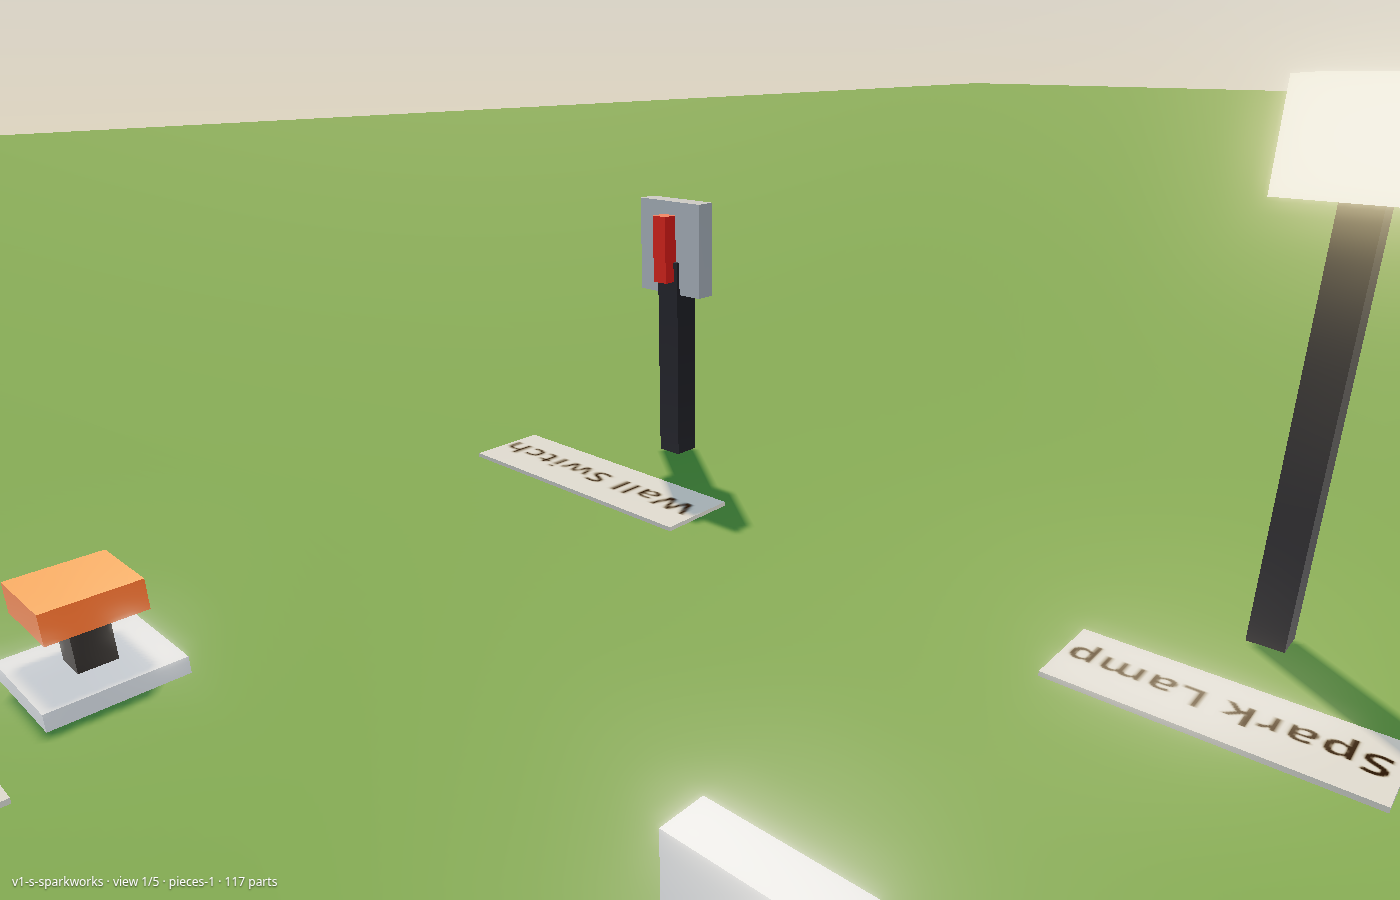
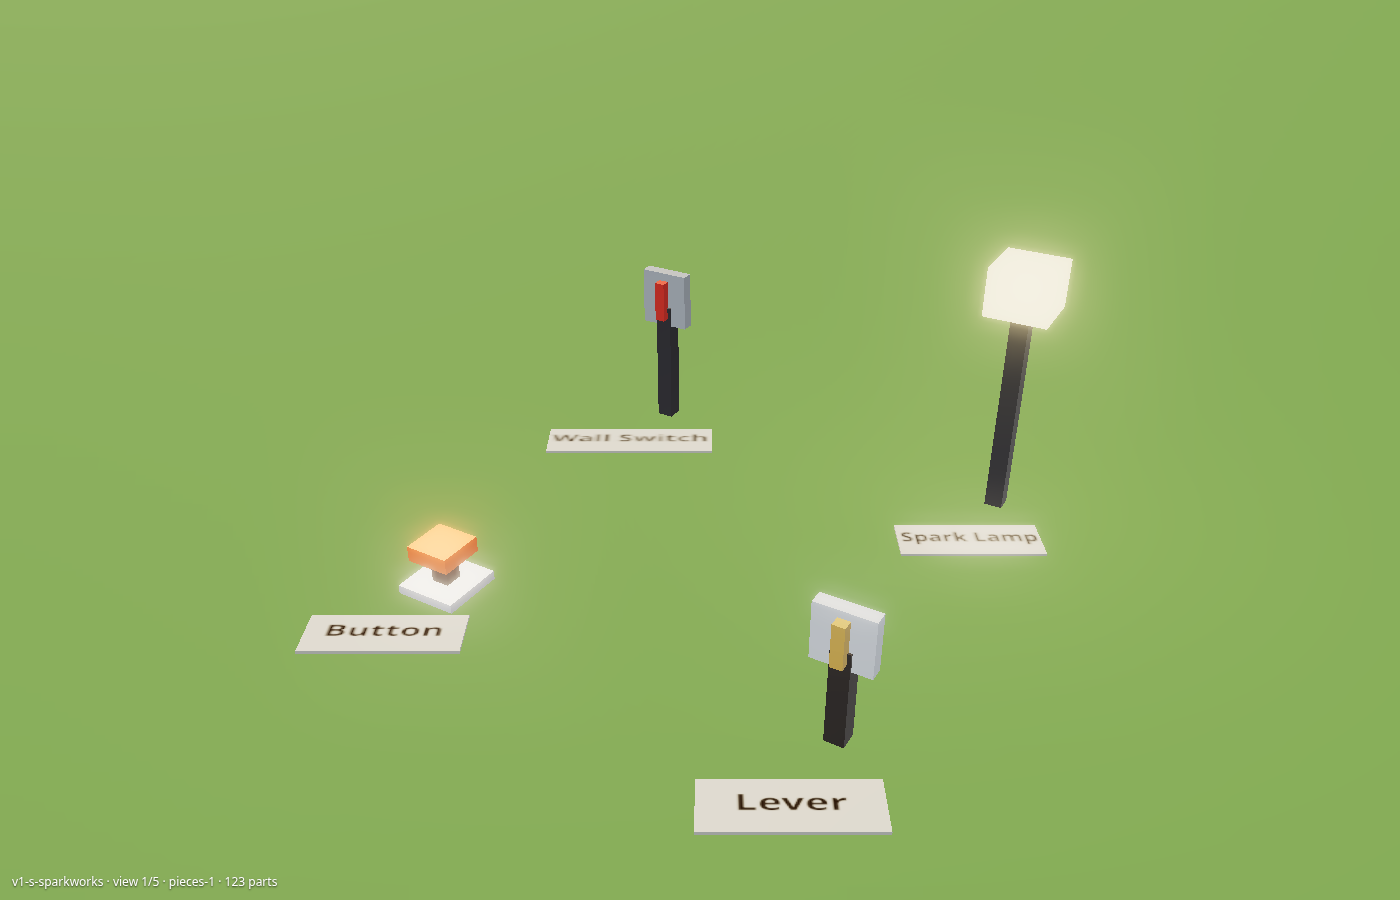
phase-2: label each gate and reframe the Sparkworks previews

diff --git a/STATUS.md b/STATUS.md
@@ -52,7 +52,7 @@ Connor reported a very long start. Measured in Lune (slower than Roblox, so use 
 
 ## What has landed (everything is on main; newest first)
 
-- **Sparkworks logic sandbox** (branch `phase-2/v1-s-sparkworks`, not merged; PHASE2_NOTES.md "Sparkworks logic sandbox" has the Studio checks). V1 wires: Button, Lever, Pressure Plate, Wall Switch, AND/OR/XOR/NOT, Delay, Sustain, Clock, Spark Lamp, Glow Wire, Hatch, plus the existing Door. Rules are `Shared/LogicGraph` (200 evaluations a pass, timers on a 0.1 s step, a loop shows Overloaded) and `Shared/WireLogic` (80 logic pieces and 160 wires per plot, proposals). Settings for Delay, Sustain and Clock are `profile.plot.logic` via `LogicSet`. The wire tool's first session says "Pick an output", "Pick an input", "Done: flip it" (not saved; that needs a remote, V1.1). `Shared/SparkworksStock` is the shelf list for Lane F. A `DemoBoard` part gets a live unsaved demo. Laser, Detector and Wood Detector are V1.1. Preview renders for Connor: `previews/v1-s/pieces-1.png` through `previews/v1-s/pieces-4.png` (at most four pieces, 3/4 from about 12 studs, name on a ground plaque), `previews/v1-s/wired.png` (lever and button into AND into a lamp, unlit beside lit, straight wires), `previews/v1-s/settings-panel-phone.png` (667x375) and `previews/v1-s/settings-panel-desktop.png` (1920x1080). The panel reads UITheme colors. Its display order (16) stays in `LogicPanelUI`'s `SparkworksTheme` until Lane U adds `Layers.LogicPanel`. Nothing of this has been seen in Studio yet.
+- **Sparkworks logic sandbox** (branch `phase-2/v1-s-sparkworks`, not merged; PHASE2_NOTES.md "Sparkworks logic sandbox" has the Studio checks). V1 wires: Button, Lever, Pressure Plate, Wall Switch, AND/OR/XOR/NOT, Delay, Sustain, Clock, Spark Lamp, Glow Wire, Hatch, plus the existing Door. Rules are `Shared/LogicGraph` (200 evaluations a pass, timers on a 0.1 s step, a loop shows Overloaded) and `Shared/WireLogic` (80 logic pieces and 160 wires per plot, proposals). Each gate wears a unique top label (AND, OR, XOR, NOT, DLY, HOLD, CLK) in cream GothamBold and an accent strip taken from UITheme colors. Settings for Delay, Sustain and Clock are `profile.plot.logic` via `LogicSet`. The wire tool's first session says "Pick an output", "Pick an input", "Done: flip it" (not saved; that needs a remote, V1.1). `Shared/SparkworksStock` is the shelf list for Lane F. A `DemoBoard` part gets a live unsaved demo. Laser, Detector and Wood Detector are V1.1. Preview renders for Connor: `previews/v1-s/pieces-1.png` through `previews/v1-s/pieces-4.png` (at most four pieces, 3/4 from about 12 studs, name on a ground plaque), `previews/v1-s/wired.png` (lever and button into AND into a lamp, unlit beside lit, straight wires), `previews/v1-s/settings-panel-phone.png` (667x375) and `previews/v1-s/settings-panel-desktop.png` (1920x1080). The panel reads UITheme colors. Its display order (16) stays in `LogicPanelUI`'s `SparkworksTheme` until Lane U adds `Layers.LogicPanel`. Nothing of this has been seen in Studio yet.
 - **Choppable trees in and round the spawn area** (branch `claude/spawn-trees`, not merged; PHASE2_NOTES.md "Trees in the spawn area" has the sites, the keep-outs, the load numbers and the Studio checks). Connor: "We need more choppable trees in the spawn area too, near the pad, by the dealership. All over, it's a lumberjack game." `TreeFill.TownRings` (appended after `PlotRings`, its own rng per site) plants 54 real felling trees (stump stays, regrow) in 16 clusters from `Shared/TownTreeData.Sites`: 7 south-west of the spawn pad along the Forest Path, 20 round the showroom hall and Land Office (west strip, forecourt, behind, east), 10 on the town's west edge, 14 north (behind the mill, the Snow Road, north of the General Store), 3 south of the plot road. Woods follow the region (`woodsNear`), biome 'wild', one regrow zone per cluster ("town:<site>", cap = its size, radius 16 at most); NOT in BiomeData counts, so `tools/economy` and `tools/economy1` are unchanged (ECONOMY.md untouched). A town zone's regrow uses `TreeFill.GroundFor` -> `TownGround` (the flat town has no `GoodGround`), so a stump is never a dead end and a regrow obeys the same keep-outs as the first planting. Keep-outs: sell area x -60..60 z 80..140, a spawn lane x -18..18 z 8..100, every road (11 off), path, floor, building (9 off), the parking lot (12) and its pull-outs, loading pads, shop doors, the Land Office queue, the gondola's first 280 studs, the lighthouse lamp's sight line from the pad (WorldPlan.spec), the townsfolk's walks, props, lamps, signs, the ornamental greenery, plots (30 off), water, slopes. Tiers (`TownTreeData.Tiers`, `Count`, `Budget`): low 54 (shipped, `ShippedTier`), medium 74, high 85; trees are server-wide so one tier ships for everybody (a phone's), the others are pinned by spec and are a one-word switch. Phone discs: spawn 1.66x -> 1.95x trees and parts (189 -> 314 -> 368 trees) (cap `TownTreeData.PhoneDiscMax` 2.0; the fill alone is still held to 1.7x). Planning cost: `WorldPlan.Trees()` 8.7-9.0 s (Lune) before, 8.7-8.9 s after (town planning about 40 ms); it stays inside the deferred forest planter, nearest the sawmill first. New preview scene `spawn-trees`. Nothing seen in Studio yet.
 - **Saves by hand, Restart save in Settings, and Unload base** (branch `claude/plot-save-switch`, PR #113, not merged; PHASE2_NOTES.md "Saves by hand, and Unload base" has the design, the safeguards and the Studio checks). Connor: "with plots, they need a way to unload/save their base and switch to another"; "it shouldn't automatically load a save ... if that player has a plot, they pick a spot"; "restart save should be in settings"; and "switching between saves, and unloading your base with a button which also saves it, LT2 style". Switching bases is switching saves (the three whole-game slots, SAVES panel). Join is quality -> save picker -> (only if the picked save has a plot) plot picker (`Shared/JoinPickLogic`, `PickerSequence` quality/slot/plot); `SaveSlotService` holds a player "picking" (`SlotPick`) until `play(index)`; the save last left off is "Last played"; the 60 s plot-picker timeout starts when the picker is shown (`PlotShown`). REDO is gone from the SAVES list: RESTART SAVE n is a two-press row in Settings (`SettingsLogic.RestartRow`). UNLOAD BASE / LOAD BASE is the top button of the SAVES panel (`BaseLogic.ButtonFor`, `PlotService.BaseAction` "unload" / "load"): unload saves the save with the base in it, takes the pad's models down, sets visitors outside, frees the pad and leaves you in the world padless (the `profile.plot` record is untouched); load opens the free plot picker. 120 s cooldown (`baseCooldownUntil`, `GameConfig.BaseCooldownSec`), rate limited, refuses with loose wood on the plot, rolls back if the release throws. `VehicleService.ClearPads` takes pad models down on unload, slot swap and leave; pads are restored when a base lands on a pad. Old Hank is unchanged. Nothing seen in Studio yet.
 - **Drop axe has no button** (branch `claude/drop-axe-controls`, not merged; PHASE2_NOTES.md "Drop axe controls" has the B audit and the Studio checks). Connor: "why is there a drop axe button". The side button is gone on every platform. The held axe (or rolled plan) drops with B on a gamepad, Q or Backspace on a keyboard, and a long press on the hotbar strip on a phone (Roblox's hotbar is the engine's, so no per-slot button is possible); two presses as before, a toast says "Press B again to drop the Steel Axe." The rules are `Shared/DropControls` (`Decide`: drop, close or ignore; B closes whatever is open and never drops), bound in `AxeController` below every menu's B. Same conditions as before (`HudRules.DropAxe`, the server checks). The D-pad Down shortcut and the quick-menu tile are gone.
